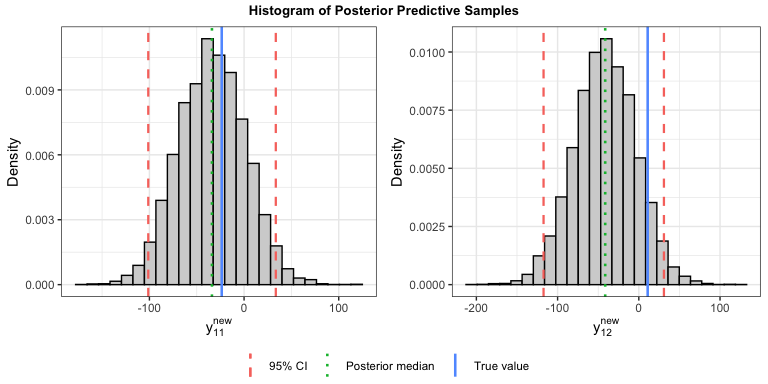
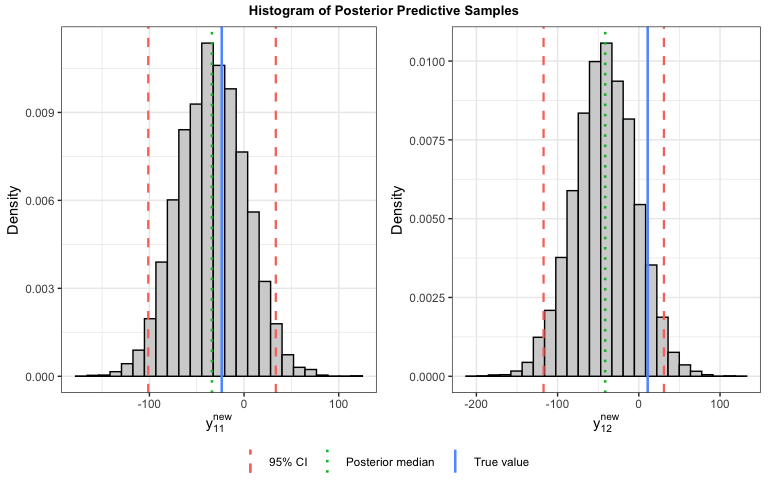
Updated predict_newsubj

diff --git a/README.md b/README.md
@@ -30,11 +30,8 @@ This repositary contains:
 ## Example Implementation of CoMET
 
 ``` r
-library(BayesCoMET)
 pdims <- qdims <- c(32, 32)
 n_train <- 100; n_test <- 50; m <- 9 ## 9 observations per subject
-
-library(BayesCoMET)
 
 ## Generating a  CP-structured fixed-effect coefficient
 cp_decomp_B <- BayesCoMET:::generate_cpB_with_sparse_factors(pdims = c(32, 32), K = 4,
@@ -96,12 +93,16 @@ res$sampler_time / 60
 ```
 
     ##       user     system    elapsed 
-    ## 23.0775500  0.4233833 23.5230500
+    ## 23.3302833  0.4356833 23.9008833
 
 ``` r
 betaPostMed <- apply(res$betaSamp, 2, median)
 vecB_true <- as.vector(trueB)
+```
 
+![](README_files/figure-gfm/visualize_betaSamps-1.png)<!-- -->
+
+``` r
 pred_res <- BayesCoMET::predict_newsubj(object = res, kdims = kdims,
                                         R_list = R_list, S_list = S_list,
                                         y_test = y_test, xlist_test = xlist_test,
@@ -109,7 +110,58 @@ pred_res <- BayesCoMET::predict_newsubj(object = res, kdims = kdims,
                                         mis = rep(m, times = n_test), nom.level = 0.95)
 ```
 
-![](README_files/figure-gfm/visualize_betaSamps-1.png)<!-- -->
+``` r
+library(dplyr)
+library(ggplot2)
+library(ggpubr)
+
+idx <- c("11", "12")
+niter <- 10000
+
+y_df <- data.frame(
+  postsamp = c(pred_res$yhat_samples[[1]][1, ], pred_res$yhat_samples[[1]][2, ]),
+  yidx  = factor(rep(idx, each = niter), levels = idx))
+
+ysumm_df <- data.frame(
+  q025 = c(pred_res$lower_pi[[1]][1], pred_res$lower_pi[[1]][2]),
+  q50 = c(quantile(pred_res$yhat_samples[[1]][1, ], 0.50), quantile(pred_res$yhat_samples[[1]][2, ], 0.50)),
+  q975 = c(pred_res$upper_pi[[1]][1], pred_res$upper_pi[[1]][2]),
+  true = c(y_test[1], y_test[2]),
+  yidx = factor(idx, levels = idx))
+
+make_hist <- function(bname) {
+  s <- filter(ysumm_df, yidx == bname)
+
+  ggplot(filter(y_df, yidx == bname), aes(x = postsamp)) +
+    geom_histogram(aes(y = after_stat(density)),
+                   bins = 25, fill = "lightgrey", color = "black") +
+
+    # 95% CI
+    geom_vline(aes(xintercept = s$q025, color = "95% CI"), linetype = 2, linewidth = 0.8) +
+    geom_vline(aes(xintercept = s$q975, color = "95% CI"), linetype = 2, linewidth = 0.8) +
+
+    # Posterior median
+    geom_vline(aes(xintercept = s$q50, color = "Posterior median"), linetype = 3, linewidth = 0.9) +
+
+    # True value
+    geom_vline(aes(xintercept = s$true, color = "True value"), linetype = 1, linewidth = 0.9) +
+
+    labs(x = bquote(y[.(bname)]^{plain(new)}), y = "Density") +
+    theme_bw() +
+    theme(
+      legend.position = "bottom",
+      plot.title = element_blank()
+    ) +
+    guides(color = guide_legend(title = NULL))
+}
+
+h1 <- make_hist("11")
+h2 <- make_hist("12")
+
+fig_pred <- ggarrange(h1, h2, ncol = 2, common.legend = TRUE, legend = "bottom")
+fig_pred <- annotate_figure(fig_pred, top = text_grob("Histogram of Posterior Predictive Samples", size = 10, face = "bold"))
+fig_pred
+```
 
 ![](README_files/figure-gfm/visualize_ySamps-1.png)<!-- -->
 
@@ -120,7 +172,7 @@ DMS-1854667 for this work.
 
 ## Citation
 
-If you use *BayesCoMET* in your work, please cite: Sarkar, S., Khare,
+If you use **BayesCoMET** in your work, please cite: Sarkar, S., Khare,
 K., & Srivastava, S. (2026). **CoMET: A Compressed Bayesian
 Mixed-Effects Model for High-Dimensional Tensors.** *arXiv.*
 <https://arxiv.org/pdf/2602.19236>
